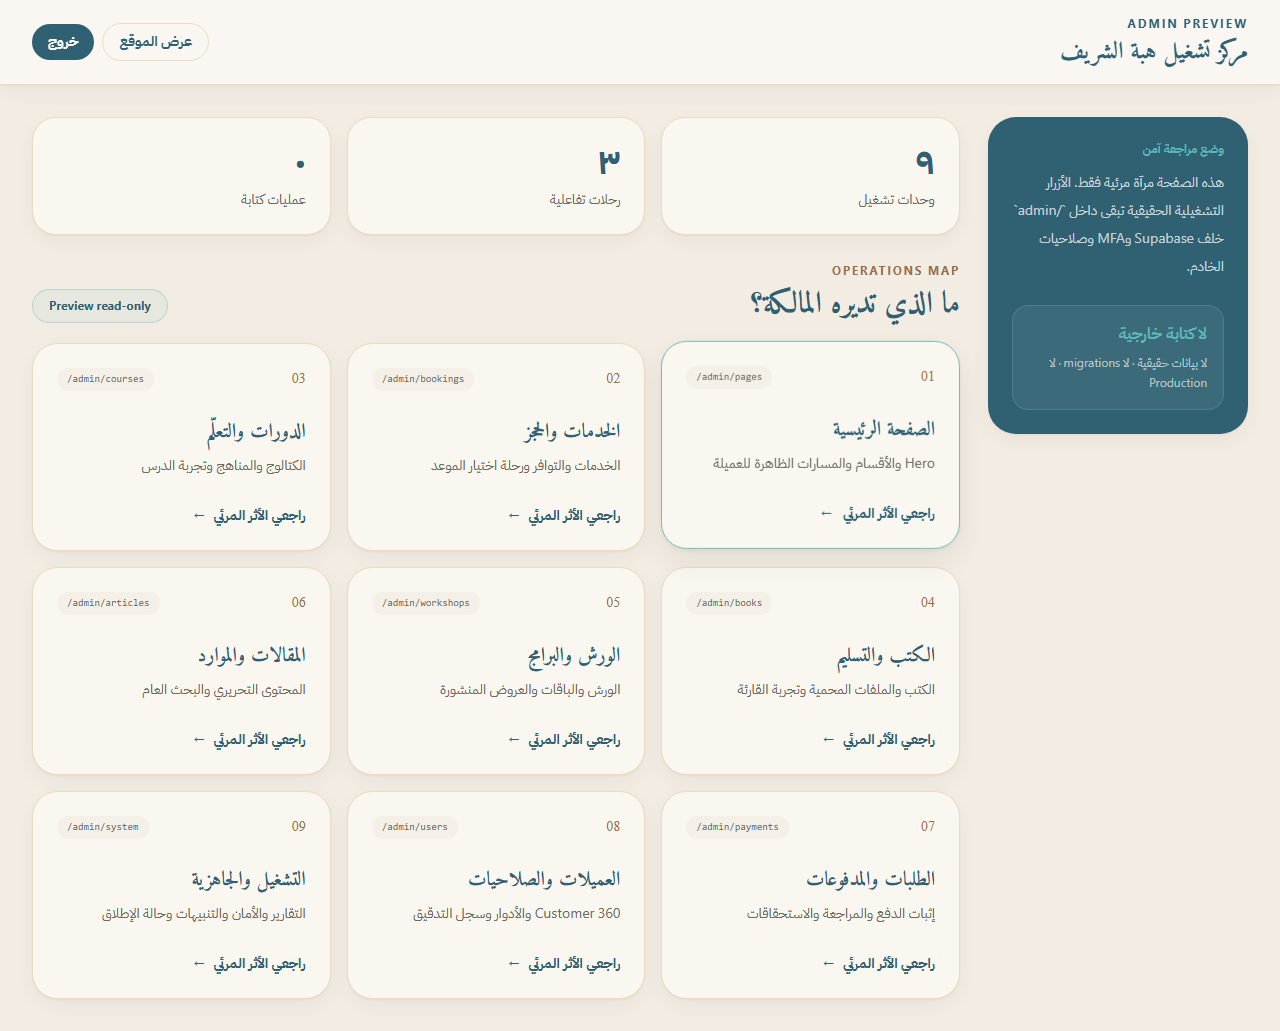
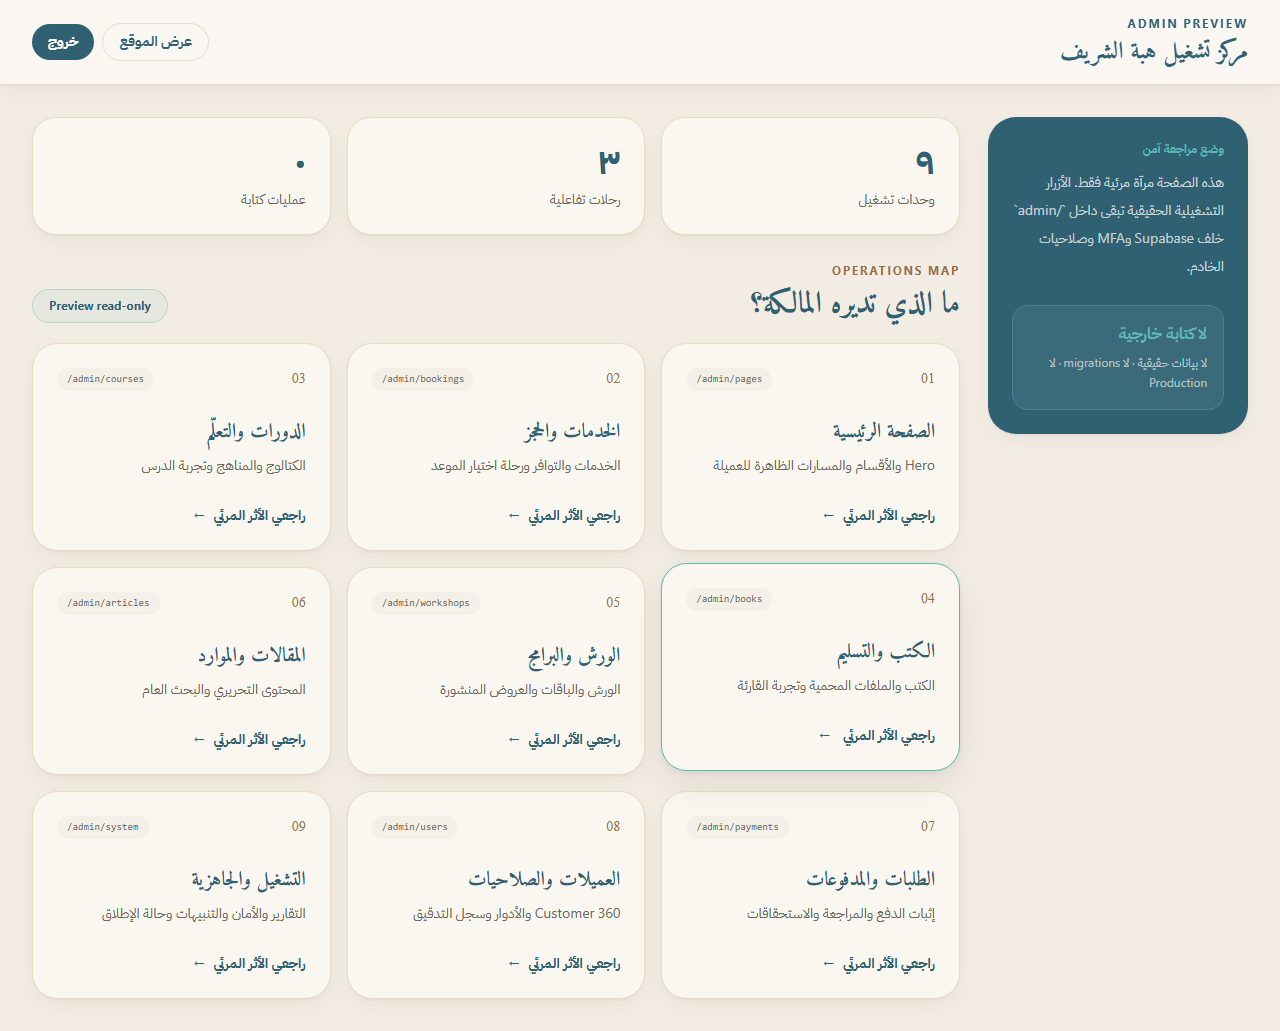
feat(preview): require admin email and password

diff --git a/tests/preview/visual-polish.spec.ts b/tests/preview/visual-polish.spec.ts
@@ -60,12 +60,20 @@ test('internal public journeys have real editorial imagery instead of flat page 
   }
 })
 
-test('password-protected admin preview creates an HttpOnly read-only session', async ({ page, context }) => {
+test('credential-protected admin preview rejects invalid identity and creates an HttpOnly read-only session', async ({ page, context }) => {
+  const email = process.env.HEBA_PREVIEW_ADMIN_EMAIL
   const password = process.env.HEBA_PREVIEW_ADMIN_PASSWORD
-  test.skip(!password, 'Preview admin password is intentionally supplied outside Git.')
+  test.skip(!email || !password, 'Preview admin credentials are intentionally supplied outside Git.')
   await visit(page, '/preview-admin')
   await expect(page.getByRole('heading', { name: 'معاينة لوحة الإدارة' })).toBeVisible()
-  await page.getByLabel('كلمة مرور معاينة الإدارة').fill(password!)
+  await page.getByLabel('البريد الإلكتروني للإدارة').fill('wrong-preview-admin@example.test')
+  await page.getByLabel('كلمة مرور الإدارة').fill(password!)
+  await page.getByRole('button', { name: 'دخول مساحة المراجعة' }).click()
+  await expect(page.getByRole('alert')).toContainText('تعذّر الدخول')
+  await expect(page.getByRole('heading', { name: 'مركز تشغيل هبة الشريف' })).toHaveCount(0)
+
+  await page.getByLabel('البريد الإلكتروني للإدارة').fill(email!)
+  await page.getByLabel('كلمة مرور الإدارة').fill(password!)
   await page.getByRole('button', { name: 'دخول مساحة المراجعة' }).click()
   await expect(page.getByRole('heading', { name: 'مركز تشغيل هبة الشريف' })).toBeVisible()
   await expect(page.getByText('وضع مراجعة آمن')).toBeVisible()

diff --git a/playwright.cloudflare.preview.config.ts b/playwright.cloudflare.preview.config.ts
@@ -3,7 +3,9 @@ import { defineConfig, devices } from '@playwright/test'
 // These are disposable localhost-only test bindings, not deployment secrets.
 // The deployed Worker receives independent values through `wrangler secret`.
 const workerTestPassword = 'preview-worker-e2e-only'
+const workerTestEmail = 'admin-preview-e2e@example.test'
 const workerTestSessionSecret = 'preview-worker-e2e-session-signing-key-000000000000'
+process.env.HEBA_PREVIEW_ADMIN_EMAIL = workerTestEmail
 process.env.HEBA_PREVIEW_ADMIN_PASSWORD = workerTestPassword
 
 export default defineConfig({
@@ -23,7 +25,7 @@ export default defineConfig({
     // Wrangler 4.114+ currently has a confirmed Miniflare regression that can
     // terminate `dev` between requests with “Network connection lost”. Pin the
     // last green local-test CLI only here; deployment remains on the project CLI.
-    command: `pnpm dlx wrangler@4.113.0 dev --config dist/server/wrangler.json --compatibility-date 2026-07-28 --var HEBA_DEPLOYMENT_ENV:preview --var HEBA_PREVIEW_ADMIN_PASSWORD:${workerTestPassword} --var HEBA_PREVIEW_ADMIN_SESSION_SECRET:${workerTestSessionSecret} --port 8790`,
+    command: `pnpm dlx wrangler@4.113.0 dev --config dist/server/wrangler.json --compatibility-date 2026-07-28 --var HEBA_DEPLOYMENT_ENV:preview --var HEBA_PREVIEW_ADMIN_EMAIL:${workerTestEmail} --var HEBA_PREVIEW_ADMIN_PASSWORD:${workerTestPassword} --var HEBA_PREVIEW_ADMIN_SESSION_SECRET:${workerTestSessionSecret} --port 8790`,
     url: 'http://127.0.0.1:8790',
     reuseExistingServer: false,
     timeout: 120_000,

diff --git a/src/lib/preview/admin-session.ts b/src/lib/preview/admin-session.ts
@@ -48,14 +48,26 @@ async function sign(payload: string) {
 
 export function isPreviewAdminConfigured() {
   return process.env.HEBA_DEPLOYMENT_ENV === 'preview'
+    && Boolean(process.env.HEBA_PREVIEW_ADMIN_EMAIL)
     && Boolean(process.env.HEBA_PREVIEW_ADMIN_PASSWORD)
     && (process.env.HEBA_PREVIEW_ADMIN_SESSION_SECRET?.length ?? 0) >= 32
 }
 
-export async function verifyPreviewAdminPassword(candidate: string) {
-  const expected = process.env.HEBA_PREVIEW_ADMIN_PASSWORD
-  if (!isPreviewAdminConfigured() || !expected || !candidate) return false
-  return sameBytes(await digest(candidate), await digest(expected))
+export async function verifyPreviewAdminCredentials(candidateEmail: string, candidatePassword: string) {
+  const expectedEmail = process.env.HEBA_PREVIEW_ADMIN_EMAIL
+  const expectedPassword = process.env.HEBA_PREVIEW_ADMIN_PASSWORD
+  if (!isPreviewAdminConfigured() || !expectedEmail || !expectedPassword || !candidateEmail || !candidatePassword) return false
+
+  const [candidateEmailDigest, expectedEmailDigest, candidatePasswordDigest, expectedPasswordDigest] = await Promise.all([
+    digest(candidateEmail.trim().toLowerCase()),
+    digest(expectedEmail.trim().toLowerCase()),
+    digest(candidatePassword),
+    digest(expectedPassword),
+  ])
+
+  const emailMatches = sameBytes(candidateEmailDigest, expectedEmailDigest)
+  const passwordMatches = sameBytes(candidatePasswordDigest, expectedPasswordDigest)
+  return emailMatches && passwordMatches
 }
 
 export async function establishPreviewAdminSession() {

diff --git a/src/lib/actions/preview-admin.ts b/src/lib/actions/preview-admin.ts
@@ -1,16 +1,17 @@
 'use server'
 
 import { redirect } from 'next/navigation'
-import { clearPreviewAdminSession, establishPreviewAdminSession, isPreviewAdminConfigured, verifyPreviewAdminPassword } from '@/lib/preview/admin-session'
+import { clearPreviewAdminSession, establishPreviewAdminSession, isPreviewAdminConfigured, verifyPreviewAdminCredentials } from '@/lib/preview/admin-session'
 
 export type PreviewAdminLoginState = { error: string | null }
 
 export async function loginPreviewAdmin(_state: PreviewAdminLoginState, formData: FormData): Promise<PreviewAdminLoginState> {
   if (!isPreviewAdminConfigured()) return { error: 'بوابة المراجعة غير مهيأة في هذه البيئة.' }
+  const email = String(formData.get('email') ?? '')
   const password = String(formData.get('password') ?? '')
-  if (!await verifyPreviewAdminPassword(password)) {
+  if (!await verifyPreviewAdminCredentials(email, password)) {
     await new Promise((resolve) => setTimeout(resolve, 700))
-    return { error: 'تعذّر الدخول. راجعي كلمة مرور المعاينة.' }
+    return { error: 'تعذّر الدخول. راجعي بيانات دخول المعاينة.' }
   }
   if (!await establishPreviewAdminSession()) return { error: 'تعذّر إنشاء جلسة المراجعة.' }
   redirect('/preview-admin')

diff --git a/src/components/preview-admin/PreviewAdminLogin.tsx b/src/components/preview-admin/PreviewAdminLogin.tsx
@@ -10,7 +10,11 @@ export function PreviewAdminLogin() {
   return (
     <form action={action} className="mt-8 space-y-5">
       <label className="grid gap-2 text-sm font-bold text-deep-teal">
-        كلمة مرور معاينة الإدارة
+        البريد الإلكتروني للإدارة
+        <input name="email" type="email" required autoComplete="username" dir="ltr" className="min-h-12 rounded-2xl border border-line bg-surface-raised px-4 text-left text-base text-ink shadow-inner outline-none transition focus:border-aqua focus:ring-4 focus:ring-aqua/12" />
+      </label>
+      <label className="grid gap-2 text-sm font-bold text-deep-teal">
+        كلمة مرور الإدارة
         <input name="password" type="password" required autoComplete="current-password" className="min-h-12 rounded-2xl border border-line bg-surface-raised px-4 text-base text-ink shadow-inner outline-none transition focus:border-aqua focus:ring-4 focus:ring-aqua/12" />
       </label>
       {state.error && <p role="alert" className="rounded-2xl border border-[#B75B62]/20 bg-[#B75B62]/8 px-4 py-3 text-sm font-semibold text-[#8E3F46]">{state.error}</p>}

diff --git a/docs/PROJECT_STATE.md b/docs/PROJECT_STATE.md
@@ -480,7 +480,7 @@ Last session: 2026-08-28 | Current program: Code X development-first execution |
 
 - **Owner defects closed locally:** the separate utility strip and the two rejected image/copy labels are removed; the Home headline now uses bounded natural Arabic wrapping with a geometry regression test; a first visit is light; an explicit dark choice changes the computed palette and persists.
 - **Visual system expanded:** one original 1600px editorial image was generated and optimized to 104 KB. Page introductions, pathways, articles, resources and the final CTA now combine real imagery, warm paper surfaces, gradients, texture, depth and motion with a reduced-motion fallback.
-- **Admin review path implemented:** `/preview-admin` is a noindex, password-protected read-only review surface. Its Cloudflare-only password and HMAC session key are absent from Git, and its signed cookie is HttpOnly/SameSite=Strict. The operational `/admin` remains unchanged behind Supabase AAL2/RBAC; there are no fake write controls.
+- **Admin review path implemented:** `/preview-admin` is a noindex, email-and-password-protected read-only review surface. Its Cloudflare-only credential pair and HMAC session key are absent from Git, and its signed cookie is HttpOnly/SameSite=Strict. Incorrect identity is rejected with a generic error. The operational `/admin` remains unchanged behind Supabase AAL2/RBAC; there are no fake write controls.
 - **Local acceptance:** TypeScript, targeted ESLint, Next Preview build, Vinext Worker build, security/archive/UX/color audits, Local Preview E2E 9/9 and local Worker E2E 9/9 pass. The public suite produced 68 passing results before a legacy reduced-motion test selector was corrected; both affected desktop/mobile cases then pass targeted.
-- **Public Preview accepted:** Cloudflare version `dd8a6fb4-2be9-41d6-81a5-7ed8f5b0d32a` is live at `https://heba-elsherif-platform-public-preview.heba-elsherif-platform.workers.dev`. Live E2E passed 9/9, including the password-protected Admin Preview, theme persistence, seven imaged public journeys, booking simulation, course and book. Four emitted JavaScript assets produced zero high-risk secret-pattern matches; no source map was exposed; CSP/HSTS/frame denial are present.
+- **Public Preview accepted:** Cloudflare version `eb2758cd-5322-4744-a8da-ff0356b3c72f` is live at `https://heba-elsherif-platform-public-preview.heba-elsherif-platform.workers.dev`. The targeted live Admin credential E2E passed after deployment, including wrong-identity rejection and the HttpOnly/SameSite=Strict session contract. The preceding full live E2E remains 9/9 for theme persistence, seven imaged public journeys, booking simulation, course and book. Four emitted JavaScript assets produced zero high-risk secret-pattern matches; no source map was exposed; CSP/HSTS/frame denial are present.
 - **Current boundary:** this is `PUBLIC PREVIEW ACCEPTED — SAFE FOR OWNER VISUAL REVIEW`, not Staging or Production acceptance. Production, DNS, Supabase, Resend and Sentry remain untouched.

diff --git a/docs/VISUAL_CUSTOMER_EXPERIENCE_DELIVERY_EVIDENCE_2026-08-28.md b/docs/VISUAL_CUSTOMER_EXPERIENCE_DELIVERY_EVIDENCE_2026-08-28.md
@@ -12,7 +12,7 @@ Scope: public Preview only; no Supabase write, Production migration, DNS or name
 | Unprofessional image labels/copy | The visible “صورة تعبيرية” and “لستِ مطالبة بمعرفة كل الإجابات” copy was removed. The portrait has a concise accessible alt and one factual value line. | Automated absence assertions |
 | Flat backgrounds and missing images | A new original editorial image was generated and self-hosted. Internal PageHero, pathways, article/resource treatments and the final CTA now use varied editorial imagery, gradients, texture and depth. | Seven-route image-load contract |
 | Dark mode does not change colors and opens first | A first visit now always starts light. Only an explicit saved choice starts dark. The switch changes computed page colors and persists after navigation. | Theme E2E contract |
-| Admin cannot be reviewed | `/preview-admin` is a password-protected, noindex, read-only visual operations map with an HMAC-signed HttpOnly/SameSite=Strict session. It does not expose customer data or fake mutations. Real `/admin` remains behind Supabase, AAL2 MFA, RBAC and server authorization. | Admin session E2E contract |
+| Admin cannot be reviewed | `/preview-admin` is an email-and-password-protected, noindex, read-only visual operations map with an HMAC-signed HttpOnly/SameSite=Strict session. It does not expose customer data or fake mutations. Real `/admin` remains behind Supabase, AAL2 MFA, RBAC and server authorization. | Admin credential/session E2E contract |
 
 ## Visual evidence
 
@@ -41,7 +41,7 @@ The first Worker E2E run was interrupted after one passing test because Wrangler
 
 ## Security boundary
 
-- The Preview Admin password and session signing key exist only as Cloudflare Preview secrets; neither value is committed, logged or included in the build artifact.
+- The Preview Admin email, password and session signing key exist only as Cloudflare Preview secrets; no value is committed, logged or included in the build artifact. The live contract rejects an incorrect identity before accepting the owner-supplied credential pair.
 - The Preview Admin surface is deliberately read-only. Adding non-persistent edit controls would violate the repository’s no-fake-admin rule.
 - `/admin` remains the operational control plane and is not weakened by this Preview route.
 - Production, DNS, Supabase, Resend and Sentry were not changed by this sprint.

diff --git a/docs/DECISIONS.md b/docs/DECISIONS.md
@@ -710,7 +710,7 @@
 
 - `/admin` remains the only operational control plane and keeps Supabase identity, AAL2 MFA, RBAC, server validation and audit requirements. A public Preview password is never accepted as an operational administrator identity.
 - `/preview-admin` is a separate read-only visual map enabled only when `HEBA_DEPLOYMENT_ENV=preview`. It exposes no customer/provider data and has no mutation controls, so it cannot create a false persistence claim.
-- Preview access uses deployment-only secrets, constant-time password digest comparison and an eight-hour HMAC-signed HttpOnly/SameSite=Strict cookie. Secret values are not source, config, build artifact or evidence.
+- Preview access uses deployment-only email/password secrets, fixed-length digest comparisons for both fields and an eight-hour HMAC-signed HttpOnly/SameSite=Strict cookie. Authentication errors stay generic. Secret values are not source, config, build artifact or evidence.
 
 ## 2026-08-28 — Light is the intentional first-visit brand default
 
